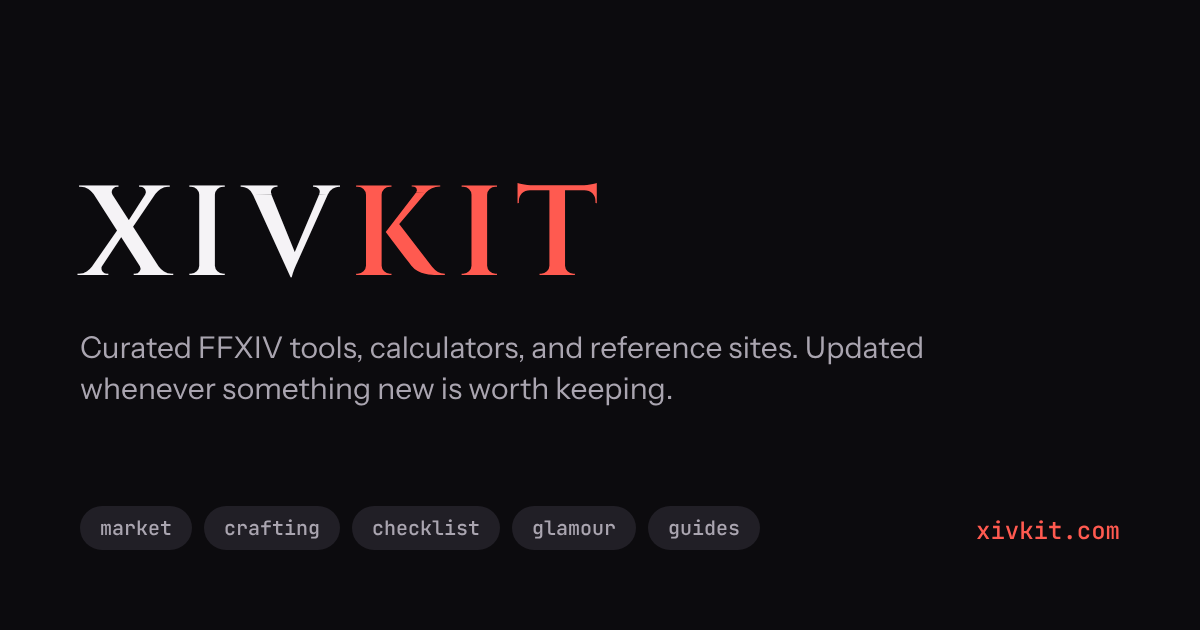
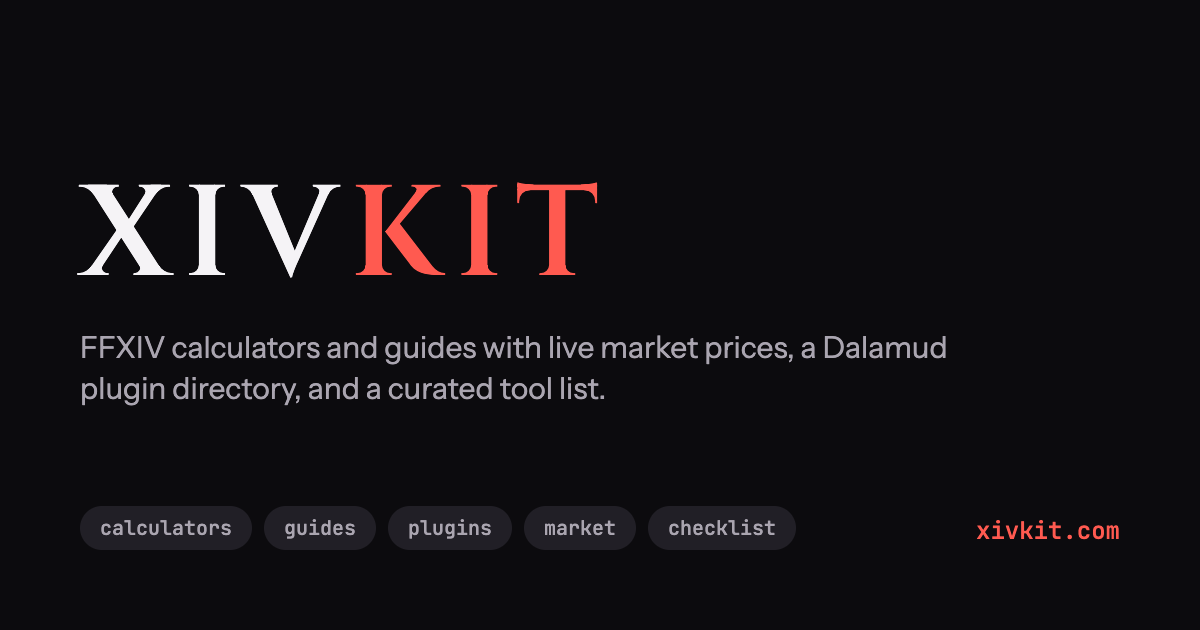
Home page: rewrite the title, description and heading and redo the link card for the merged tools list

diff --git a/ja/index.html b/ja/index.html
@@ -13,8 +13,8 @@
 </script>
 <meta charset="UTF-8">
 <meta name="viewport" content="width=device-width, initial-scale=1.0">
-<title>XIVKit：FF14 おすすめツール＆リンク集</title>
-<meta name="description" content="FF14のツールとリンクを、実際に使っているものと未試用のものに分けて掲載。理論計算ツール、マーケットボードのデータ、製作管理ツール、資料サイトなど。">
+<title>FF14 ツール・計算機・ガイド集 | XIVKit</title>
+<meta name="description" content="マーケットボードの相場に連動するFF14の計算機とガイド、Dalamudプラグインの一覧、そして「使っている」「未試用」の印を付けたツール集。">
 <link rel="canonical" href="https://xivkit.com/ja/">
 <!-- i18n:alternates (generated by scripts/i18n-build.mjs) -->
 <link rel="alternate" hreflang="en" href="https://xivkit.com/">
@@ -29,18 +29,18 @@
 
 <meta property="og:type" content="website">
 <meta property="og:site_name" content="XIVKit">
-<meta property="og:title" content="XIVKit：FF14 おすすめツール＆リンク集">
-<meta property="og:description" content="FF14のツールとリンクを、実際に使っているものと未試用のものに分けて掲載。理論計算ツール、マーケットボードのデータ、製作管理ツール、資料サイトなど。">
+<meta property="og:title" content="FF14 ツール・計算機・ガイド集 | XIVKit">
+<meta property="og:description" content="マーケットボードの相場に連動するFF14の計算機とガイド、Dalamudプラグインの一覧、そして「使っている」「未試用」の印を付けたツール集。">
 <meta property="og:url" content="https://xivkit.com/ja/">
 <meta content="ja_JP" property="og:locale">
 <meta property="og:image" content="https://xivkit.com/og-tools.png">
 <meta property="og:image:width" content="1200">
 <meta property="og:image:height" content="630">
-<meta property="og:image:alt" content="XIVKit: FFXIV Tools & Links">
+<meta property="og:image:alt" content="XIVKit: FFXIV tools, calculators and guides">
 
 <meta name="twitter:card" content="summary_large_image">
-<meta name="twitter:title" content="XIVKit：FF14 おすすめツール＆リンク集">
-<meta name="twitter:description" content="FF14のツールとリンクを、実際に使っているものと未試用のものに分けて掲載。理論計算ツール、マーケットボードのデータ、製作管理ツール、資料サイトなど。">
+<meta name="twitter:title" content="FF14 ツール・計算機・ガイド集 | XIVKit">
+<meta name="twitter:description" content="マーケットボードの相場に連動するFF14の計算機とガイド、Dalamudプラグインの一覧、そして「使っている」「未試用」の印を付けたツール集。">
 <meta name="twitter:image" content="https://xivkit.com/og-tools.png">
 
 <script type="application/ld+json">
@@ -51,9 +51,9 @@
       "@type": "WebSite",
       "@id": "https://xivkit.com/#website",
       "name": "XIVKit",
-      "alternateName": "XIVKit: FFXIV Tools & Links",
+      "alternateName": "XIVKit: FFXIV Tools, Calculators & Guides",
       "url": "https://xivkit.com/",
-      "description": "Curated FFXIV tools and links, marked by whether I use them or haven't tried them yet: theorycrafting calculators, market board data, crafting trackers, and reference sites.",
+      "description": "Live-price FFXIV calculators and guides, a Dalamud plugin directory, and a curated list of tools, each marked as one I use or haven't tried yet.",
       "inLanguage": "ja",
       "publisher": { "@id": "https://xivkit.com/#org" }
     },
@@ -363,7 +363,7 @@
 <main>
   <header class="is-home">
     <a class="wordmark" href="ja/" aria-label="XIVKit home">XIV<b>KIT</b></a>
-    <h1 data-i18n="pages.index.h1">XIVKit: FFXIV Tools &amp; Links</h1>
+    <h1 data-i18n="pages.index.h1">FF14のツール・計算機・ガイド</h1>
     <p data-i18n="pages.index.tagline">FF14のツールとリンクをまとめた、随時更新のリストです。残す価値があるものを見つけるたびに更新します。</p>
     <p class="note" data-i18n="pages.index.statusNote">「使っている」は自分で使っているものです。「未試用」は話に聞いた、または他の人が使っているのを見たものの、まだおすすめではありません。</p>
   </header>
@@ -704,7 +704,7 @@
 <script src="https://cdn.jsdelivr.net/npm/i18next@26.4.0/dist/umd/i18next.min.js"></script>
 <script src="https://cdn.jsdelivr.net/npm/i18next-http-backend@4.0.1/i18nextHttpBackend.min.js"></script>
 <script src="https://cdn.jsdelivr.net/npm/i18next-browser-languagedetector@8.2.1/dist/umd/i18nextBrowserLanguageDetector.min.js"></script>
-<script src="i18n.js?v=0dc21a62"></script>
+<script src="i18n.js?v=8c5c427b"></script>
 <script>
 (function () {
   var items = Array.prototype.slice.call(document.querySelectorAll('li[data-tags]'));

diff --git a/fr/index.html b/fr/index.html
@@ -13,8 +13,8 @@
 </script>
 <meta charset="UTF-8">
 <meta name="viewport" content="width=device-width, initial-scale=1.0">
-<title>XIVKit : outils et liens FFXIV</title>
-<meta name="description" content="Une sélection d'outils et de liens FFXIV, signalés selon que je les utilise ou que je ne les ai pas encore essayés : calculateurs de theorycraft, données du marché, suivi d'artisanat et sites de référence.">
+<title>Outils, calculateurs et guides FFXIV | XIVKit</title>
+<meta name="description" content="Calculateurs et guides FFXIV avec prix du marché en direct, un répertoire de plugins Dalamud et une liste d'outils choisie, chacun marqué « J'utilise » ou « Pas encore essayé ».">
 <link rel="canonical" href="https://xivkit.com/fr/">
 <!-- i18n:alternates (generated by scripts/i18n-build.mjs) -->
 <link rel="alternate" hreflang="en" href="https://xivkit.com/">
@@ -29,18 +29,18 @@
 
 <meta property="og:type" content="website">
 <meta property="og:site_name" content="XIVKit">
-<meta property="og:title" content="XIVKit : outils et liens FFXIV">
-<meta property="og:description" content="Une sélection d'outils et de liens FFXIV, signalés selon que je les utilise ou que je ne les ai pas encore essayés : calculateurs de theorycraft, données du marché, suivi d'artisanat et sites de référence.">
+<meta property="og:title" content="Outils, calculateurs et guides FFXIV | XIVKit">
+<meta property="og:description" content="Calculateurs et guides FFXIV avec prix du marché en direct, un répertoire de plugins Dalamud et une liste d'outils choisie, chacun marqué « J'utilise » ou « Pas encore essayé ».">
 <meta property="og:url" content="https://xivkit.com/fr/">
 <meta content="fr_FR" property="og:locale">
 <meta property="og:image" content="https://xivkit.com/og-tools.png">
 <meta property="og:image:width" content="1200">
 <meta property="og:image:height" content="630">
-<meta property="og:image:alt" content="XIVKit: FFXIV Tools & Links">
+<meta property="og:image:alt" content="XIVKit: FFXIV tools, calculators and guides">
 
 <meta name="twitter:card" content="summary_large_image">
-<meta name="twitter:title" content="XIVKit : outils et liens FFXIV">
-<meta name="twitter:description" content="Une sélection d'outils et de liens FFXIV, signalés selon que je les utilise ou que je ne les ai pas encore essayés : calculateurs de theorycraft, données du marché, suivi d'artisanat et sites de référence.">
+<meta name="twitter:title" content="Outils, calculateurs et guides FFXIV | XIVKit">
+<meta name="twitter:description" content="Calculateurs et guides FFXIV avec prix du marché en direct, un répertoire de plugins Dalamud et une liste d'outils choisie, chacun marqué « J'utilise » ou « Pas encore essayé ».">
 <meta name="twitter:image" content="https://xivkit.com/og-tools.png">
 
 <script type="application/ld+json">
@@ -51,9 +51,9 @@
       "@type": "WebSite",
       "@id": "https://xivkit.com/#website",
       "name": "XIVKit",
-      "alternateName": "XIVKit: FFXIV Tools & Links",
+      "alternateName": "XIVKit: FFXIV Tools, Calculators & Guides",
       "url": "https://xivkit.com/",
-      "description": "Curated FFXIV tools and links, marked by whether I use them or haven't tried them yet: theorycrafting calculators, market board data, crafting trackers, and reference sites.",
+      "description": "Live-price FFXIV calculators and guides, a Dalamud plugin directory, and a curated list of tools, each marked as one I use or haven't tried yet.",
       "inLanguage": "fr",
       "publisher": { "@id": "https://xivkit.com/#org" }
     },
@@ -363,7 +363,7 @@
 <main>
   <header class="is-home">
     <a class="wordmark" href="fr/" aria-label="XIVKit home">XIV<b>KIT</b></a>
-    <h1 data-i18n="pages.index.h1">XIVKit: FFXIV Tools &amp; Links</h1>
+    <h1 data-i18n="pages.index.h1">Outils, calculateurs et guides FFXIV</h1>
     <p data-i18n="pages.index.tagline">Une liste évolutive d'outils et de liens FFXIV, mise à jour à chaque fois que je trouve quelque chose qui vaut la peine d'être gardé.</p>
     <p class="note" data-i18n="pages.index.statusNote">« J'utilise » signifie que je m'en sers moi-même. « Pas encore essayé » signifie que j'en ai entendu parler ou que je l'ai vu chez d'autres, mais ce n'est pas encore une recommandation.</p>
   </header>
@@ -704,7 +704,7 @@
 <script src="https://cdn.jsdelivr.net/npm/i18next@26.4.0/dist/umd/i18next.min.js"></script>
 <script src="https://cdn.jsdelivr.net/npm/i18next-http-backend@4.0.1/i18nextHttpBackend.min.js"></script>
 <script src="https://cdn.jsdelivr.net/npm/i18next-browser-languagedetector@8.2.1/dist/umd/i18nextBrowserLanguageDetector.min.js"></script>
-<script src="i18n.js?v=0dc21a62"></script>
+<script src="i18n.js?v=8c5c427b"></script>
 <script>
 (function () {
   var items = Array.prototype.slice.call(document.querySelectorAll('li[data-tags]'));

diff --git a/de/index.html b/de/index.html
@@ -13,8 +13,8 @@
 </script>
 <meta charset="UTF-8">
 <meta name="viewport" content="width=device-width, initial-scale=1.0">
-<title>XIVKit: FFXIV-Tools & Links</title>
-<meta name="description" content="Ausgewählte FFXIV-Tools und Links, markiert danach, ob ich sie nutze oder noch nicht ausprobiert habe: Theorycrafting-Rechner, Marktbrett-Daten, Crafting-Tracker und Nachschlageseiten.">
+<title>FFXIV-Tools, Rechner & Guides | XIVKit</title>
+<meta name="description" content="FFXIV-Rechner und Guides mit Live-Marktpreisen, ein Dalamud-Plugin-Verzeichnis und eine kuratierte Tool-Liste, jeweils markiert als „Nutze ich“ oder „Noch nicht probiert“.">
 <link rel="canonical" href="https://xivkit.com/de/">
 <!-- i18n:alternates (generated by scripts/i18n-build.mjs) -->
 <link rel="alternate" hreflang="en" href="https://xivkit.com/">
@@ -29,18 +29,18 @@
 
 <meta property="og:type" content="website">
 <meta property="og:site_name" content="XIVKit">
-<meta property="og:title" content="XIVKit: FFXIV-Tools & Links">
-<meta property="og:description" content="Ausgewählte FFXIV-Tools und Links, markiert danach, ob ich sie nutze oder noch nicht ausprobiert habe: Theorycrafting-Rechner, Marktbrett-Daten, Crafting-Tracker und Nachschlageseiten.">
+<meta property="og:title" content="FFXIV-Tools, Rechner & Guides | XIVKit">
+<meta property="og:description" content="FFXIV-Rechner und Guides mit Live-Marktpreisen, ein Dalamud-Plugin-Verzeichnis und eine kuratierte Tool-Liste, jeweils markiert als „Nutze ich“ oder „Noch nicht probiert“.">
 <meta property="og:url" content="https://xivkit.com/de/">
 <meta content="de_DE" property="og:locale">
 <meta property="og:image" content="https://xivkit.com/og-tools.png">
 <meta property="og:image:width" content="1200">
 <meta property="og:image:height" content="630">
-<meta property="og:image:alt" content="XIVKit: FFXIV Tools & Links">
+<meta property="og:image:alt" content="XIVKit: FFXIV tools, calculators and guides">
 
 <meta name="twitter:card" content="summary_large_image">
-<meta name="twitter:title" content="XIVKit: FFXIV-Tools & Links">
-<meta name="twitter:description" content="Ausgewählte FFXIV-Tools und Links, markiert danach, ob ich sie nutze oder noch nicht ausprobiert habe: Theorycrafting-Rechner, Marktbrett-Daten, Crafting-Tracker und Nachschlageseiten.">
+<meta name="twitter:title" content="FFXIV-Tools, Rechner & Guides | XIVKit">
+<meta name="twitter:description" content="FFXIV-Rechner und Guides mit Live-Marktpreisen, ein Dalamud-Plugin-Verzeichnis und eine kuratierte Tool-Liste, jeweils markiert als „Nutze ich“ oder „Noch nicht probiert“.">
 <meta name="twitter:image" content="https://xivkit.com/og-tools.png">
 
 <script type="application/ld+json">
@@ -51,9 +51,9 @@
       "@type": "WebSite",
       "@id": "https://xivkit.com/#website",
       "name": "XIVKit",
-      "alternateName": "XIVKit: FFXIV Tools & Links",
+      "alternateName": "XIVKit: FFXIV Tools, Calculators & Guides",
       "url": "https://xivkit.com/",
-      "description": "Curated FFXIV tools and links, marked by whether I use them or haven't tried them yet: theorycrafting calculators, market board data, crafting trackers, and reference sites.",
+      "description": "Live-price FFXIV calculators and guides, a Dalamud plugin directory, and a curated list of tools, each marked as one I use or haven't tried yet.",
       "inLanguage": "de",
       "publisher": { "@id": "https://xivkit.com/#org" }
     },
@@ -363,7 +363,7 @@
 <main>
   <header class="is-home">
     <a class="wordmark" href="de/" aria-label="XIVKit home">XIV<b>KIT</b></a>
-    <h1 data-i18n="pages.index.h1">XIVKit: FFXIV Tools &amp; Links</h1>
+    <h1 data-i18n="pages.index.h1">FFXIV-Tools, Rechner und Guides</h1>
     <p data-i18n="pages.index.tagline">Eine laufende Liste von FFXIV-Tools und Links. Wird aktualisiert, sobald ich etwas Sehenswertes finde.</p>
     <p class="note" data-i18n="pages.index.statusNote">„Nutze ich“ heißt, ich nutze es selbst. „Noch nicht probiert“ heißt, ich habe davon gehört oder es bei anderen gesehen, aber es ist noch keine Empfehlung.</p>
   </header>
@@ -704,7 +704,7 @@
 <script src="https://cdn.jsdelivr.net/npm/i18next@26.4.0/dist/umd/i18next.min.js"></script>
 <script src="https://cdn.jsdelivr.net/npm/i18next-http-backend@4.0.1/i18nextHttpBackend.min.js"></script>
 <script src="https://cdn.jsdelivr.net/npm/i18next-browser-languagedetector@8.2.1/dist/umd/i18nextBrowserLanguageDetector.min.js"></script>
-<script src="i18n.js?v=0dc21a62"></script>
+<script src="i18n.js?v=8c5c427b"></script>
 <script>
 (function () {
   var items = Array.prototype.slice.call(document.querySelectorAll('li[data-tags]'));

diff --git a/index.html b/index.html
@@ -12,8 +12,8 @@
 </script>
 <meta charset="UTF-8">
 <meta name="viewport" content="width=device-width, initial-scale=1.0">
-<title>XIVKit: FFXIV Tools &amp; Links</title>
-<meta name="description" content="Curated FFXIV tools and links, marked by whether I use them or haven't tried them yet: theorycrafting calculators, market board data, crafting trackers, and reference sites.">
+<title>FFXIV Tools, Calculators &amp; Guides | XIVKit</title>
+<meta name="description" content="Live-price FFXIV calculators and guides, a Dalamud plugin directory, and a curated list of tools, each marked as one I use or haven't tried yet.">
 <link rel="canonical" href="https://xivkit.com/">
 <!-- i18n:alternates (generated by scripts/i18n-build.mjs) -->
 <link rel="alternate" hreflang="en" href="https://xivkit.com/">
@@ -28,17 +28,17 @@
 
 <meta property="og:type" content="website">
 <meta property="og:site_name" content="XIVKit">
-<meta property="og:title" content="XIVKit: FFXIV Tools & Links">
-<meta property="og:description" content="Curated FFXIV tools and links, marked by whether I use them or haven't tried them yet: theorycrafting calculators, market board data, crafting trackers, and reference sites.">
+<meta property="og:title" content="FFXIV Tools, Calculators &amp; Guides | XIVKit">
+<meta property="og:description" content="Live-price FFXIV calculators and guides, a Dalamud plugin directory, and a curated list of tools, each marked as one I use or haven't tried yet.">
 <meta property="og:url" content="https://xivkit.com/">
 <meta property="og:image" content="https://xivkit.com/og-tools.png">
 <meta property="og:image:width" content="1200">
 <meta property="og:image:height" content="630">
-<meta property="og:image:alt" content="XIVKit: FFXIV Tools & Links">
+<meta property="og:image:alt" content="XIVKit: FFXIV tools, calculators and guides">
 
 <meta name="twitter:card" content="summary_large_image">
-<meta name="twitter:title" content="XIVKit: FFXIV Tools & Links">
-<meta name="twitter:description" content="Curated FFXIV tools and links, marked by whether I use them or haven't tried them yet: theorycrafting calculators, market board data, crafting trackers, and reference sites.">
+<meta name="twitter:title" content="FFXIV Tools, Calculators &amp; Guides | XIVKit">
+<meta name="twitter:description" content="Live-price FFXIV calculators and guides, a Dalamud plugin directory, and a curated list of tools, each marked as one I use or haven't tried yet.">
 <meta name="twitter:image" content="https://xivkit.com/og-tools.png">
 
 <script type="application/ld+json">
@@ -49,9 +49,9 @@
       "@type": "WebSite",
       "@id": "https://xivkit.com/#website",
       "name": "XIVKit",
-      "alternateName": "XIVKit: FFXIV Tools & Links",
+      "alternateName": "XIVKit: FFXIV Tools, Calculators & Guides",
       "url": "https://xivkit.com/",
-      "description": "Curated FFXIV tools and links, marked by whether I use them or haven't tried them yet: theorycrafting calculators, market board data, crafting trackers, and reference sites.",
+      "description": "Live-price FFXIV calculators and guides, a Dalamud plugin directory, and a curated list of tools, each marked as one I use or haven't tried yet.",
       "inLanguage": "en",
       "publisher": { "@id": "https://xivkit.com/#org" }
     },
@@ -361,7 +361,7 @@
 <main>
   <header class="is-home">
     <a class="wordmark" href="./" aria-label="XIVKit home">XIV<b>KIT</b></a>
-    <h1 data-i18n="pages.index.h1">XIVKit: FFXIV Tools &amp; Links</h1>
+    <h1 data-i18n="pages.index.h1">FFXIV tools, calculators &amp; guides</h1>
     <p data-i18n="pages.index.tagline">A running list of FFXIV tools and links, updated whenever I find something worth keeping.</p>
     <p class="note" data-i18n="pages.index.statusNote">&ldquo;I use this&rdquo; means I use it myself. &ldquo;Not tried yet&rdquo; means I&#39;ve heard about it or seen others use it, but it isn&#39;t a recommendation yet.</p>
   </header>
@@ -702,7 +702,7 @@
 <script src="https://cdn.jsdelivr.net/npm/i18next@26.4.0/dist/umd/i18next.min.js"></script>
 <script src="https://cdn.jsdelivr.net/npm/i18next-http-backend@4.0.1/i18nextHttpBackend.min.js"></script>
 <script src="https://cdn.jsdelivr.net/npm/i18next-browser-languagedetector@8.2.1/dist/umd/i18nextBrowserLanguageDetector.min.js"></script>
-<script src="i18n.js?v=0dc21a62"></script>
+<script src="i18n.js?v=8c5c427b"></script>
 <script>
 (function () {
   var items = Array.prototype.slice.call(document.querySelectorAll('li[data-tags]'));

diff --git a/inventory-decluttering.html b/inventory-decluttering.html
@@ -350,7 +350,7 @@ footer .legal{font-size:.75rem;opacity:.7}
 <script src="https://cdn.jsdelivr.net/npm/i18next@26.4.0/dist/umd/i18next.min.js"></script>
 <script src="https://cdn.jsdelivr.net/npm/i18next-http-backend@4.0.1/i18nextHttpBackend.min.js"></script>
 <script src="https://cdn.jsdelivr.net/npm/i18next-browser-languagedetector@8.2.1/dist/umd/i18nextBrowserLanguageDetector.min.js"></script>
-<script src="i18n.js?v=0dc21a62"></script>
+<script src="i18n.js?v=8c5c427b"></script>
 <script>
 // Content for the Inventory Decluttering page.
 const ICON = p => `https://beta.xivapi.com/api/1/asset?path=ui/icon/${p}.tex&format=png`;

diff --git a/fanfest-bingo.html b/fanfest-bingo.html
@@ -710,7 +710,7 @@ h1{margin:0;font-family:var(--serif);font-weight:900;font-size:clamp(40px,7vw,72
 <script src="https://cdn.jsdelivr.net/npm/i18next@26.4.0/dist/umd/i18next.min.js"></script>
 <script src="https://cdn.jsdelivr.net/npm/i18next-http-backend@4.0.1/i18nextHttpBackend.min.js"></script>
 <script src="https://cdn.jsdelivr.net/npm/i18next-browser-languagedetector@8.2.1/dist/umd/i18nextBrowserLanguageDetector.min.js"></script>
-<script src="i18n.js?v=0dc21a62"></script>
+<script src="i18n.js?v=8c5c427b"></script>
 <script type="application/ld+json">
 {
   "@context": "https://schema.org",

diff --git a/keybound-brawler.html b/keybound-brawler.html
@@ -349,7 +349,7 @@ h2{margin:0;font-family:var(--display);font-weight:400;font-size:28px;color:var(
 <script src="https://cdn.jsdelivr.net/npm/i18next@26.4.0/dist/umd/i18next.min.js"></script>
 <script src="https://cdn.jsdelivr.net/npm/i18next-http-backend@4.0.1/i18nextHttpBackend.min.js"></script>
 <script src="https://cdn.jsdelivr.net/npm/i18next-browser-languagedetector@8.2.1/dist/umd/i18nextBrowserLanguageDetector.min.js"></script>
-<script src="i18n.js?v=0dc21a62"></script>
+<script src="i18n.js?v=8c5c427b"></script>
 <script type="application/ld+json">
 {
   "@context": "https://schema.org",

diff --git a/de/housing-for-beginners.html b/de/housing-for-beginners.html
@@ -660,7 +660,7 @@ ul.links li small{color:var(--muted)}
 <script src="https://cdn.jsdelivr.net/npm/i18next@26.4.0/dist/umd/i18next.min.js"></script>
 <script src="https://cdn.jsdelivr.net/npm/i18next-http-backend@4.0.1/i18nextHttpBackend.min.js"></script>
 <script src="https://cdn.jsdelivr.net/npm/i18next-browser-languagedetector@8.2.1/dist/umd/i18nextBrowserLanguageDetector.min.js"></script>
-<script src="i18n.js?v=0dc21a62"></script>
+<script src="i18n.js?v=8c5c427b"></script>
 <script>
 (function () {
   // Live Market Board prices from Universalis for the region chosen in the

diff --git a/fr/housing-for-beginners.html b/fr/housing-for-beginners.html
@@ -660,7 +660,7 @@ ul.links li small{color:var(--muted)}
 <script src="https://cdn.jsdelivr.net/npm/i18next@26.4.0/dist/umd/i18next.min.js"></script>
 <script src="https://cdn.jsdelivr.net/npm/i18next-http-backend@4.0.1/i18nextHttpBackend.min.js"></script>
 <script src="https://cdn.jsdelivr.net/npm/i18next-browser-languagedetector@8.2.1/dist/umd/i18nextBrowserLanguageDetector.min.js"></script>
-<script src="i18n.js?v=0dc21a62"></script>
+<script src="i18n.js?v=8c5c427b"></script>
 <script>
 (function () {
   // Live Market Board prices from Universalis for the region chosen in the

diff --git a/housing-for-beginners.html b/housing-for-beginners.html
@@ -658,7 +658,7 @@ ul.links li small{color:var(--muted)}
 <script src="https://cdn.jsdelivr.net/npm/i18next@26.4.0/dist/umd/i18next.min.js"></script>
 <script src="https://cdn.jsdelivr.net/npm/i18next-http-backend@4.0.1/i18nextHttpBackend.min.js"></script>
 <script src="https://cdn.jsdelivr.net/npm/i18next-browser-languagedetector@8.2.1/dist/umd/i18nextBrowserLanguageDetector.min.js"></script>
-<script src="i18n.js?v=0dc21a62"></script>
+<script src="i18n.js?v=8c5c427b"></script>
 <script>
 (function () {
   // Live Market Board prices from Universalis for the region chosen in the

diff --git a/ja/housing-for-beginners.html b/ja/housing-for-beginners.html
@@ -660,7 +660,7 @@ ul.links li small{color:var(--muted)}
 <script src="https://cdn.jsdelivr.net/npm/i18next@26.4.0/dist/umd/i18next.min.js"></script>
 <script src="https://cdn.jsdelivr.net/npm/i18next-http-backend@4.0.1/i18nextHttpBackend.min.js"></script>
 <script src="https://cdn.jsdelivr.net/npm/i18next-browser-languagedetector@8.2.1/dist/umd/i18nextBrowserLanguageDetector.min.js"></script>
-<script src="i18n.js?v=0dc21a62"></script>
+<script src="i18n.js?v=8c5c427b"></script>
 <script>
 (function () {
   // Live Market Board prices from Universalis for the region chosen in the

diff --git a/de/msq-tracker.html b/de/msq-tracker.html
@@ -630,7 +630,7 @@ footer.sources .legal{font-size:13px}
 <script src="https://cdn.jsdelivr.net/npm/i18next@26.4.0/dist/umd/i18next.min.js"></script>
 <script src="https://cdn.jsdelivr.net/npm/i18next-http-backend@4.0.1/i18nextHttpBackend.min.js"></script>
 <script src="https://cdn.jsdelivr.net/npm/i18next-browser-languagedetector@8.2.1/dist/umd/i18nextBrowserLanguageDetector.min.js"></script>
-<script src="i18n.js?v=0dc21a62"></script>
+<script src="i18n.js?v=8c5c427b"></script>
 <script type="application/ld+json">
 {
   "@context": "https://schema.org",
